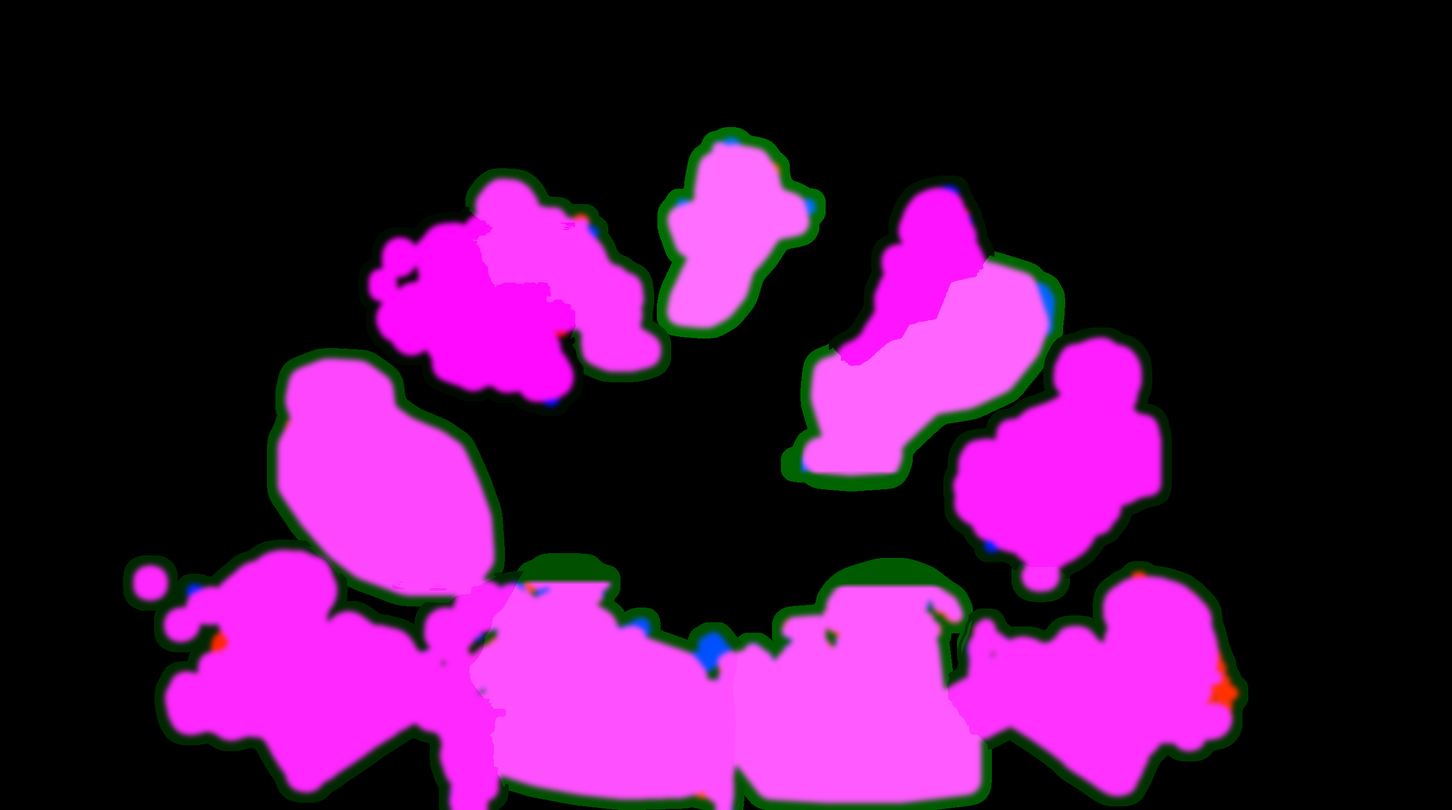
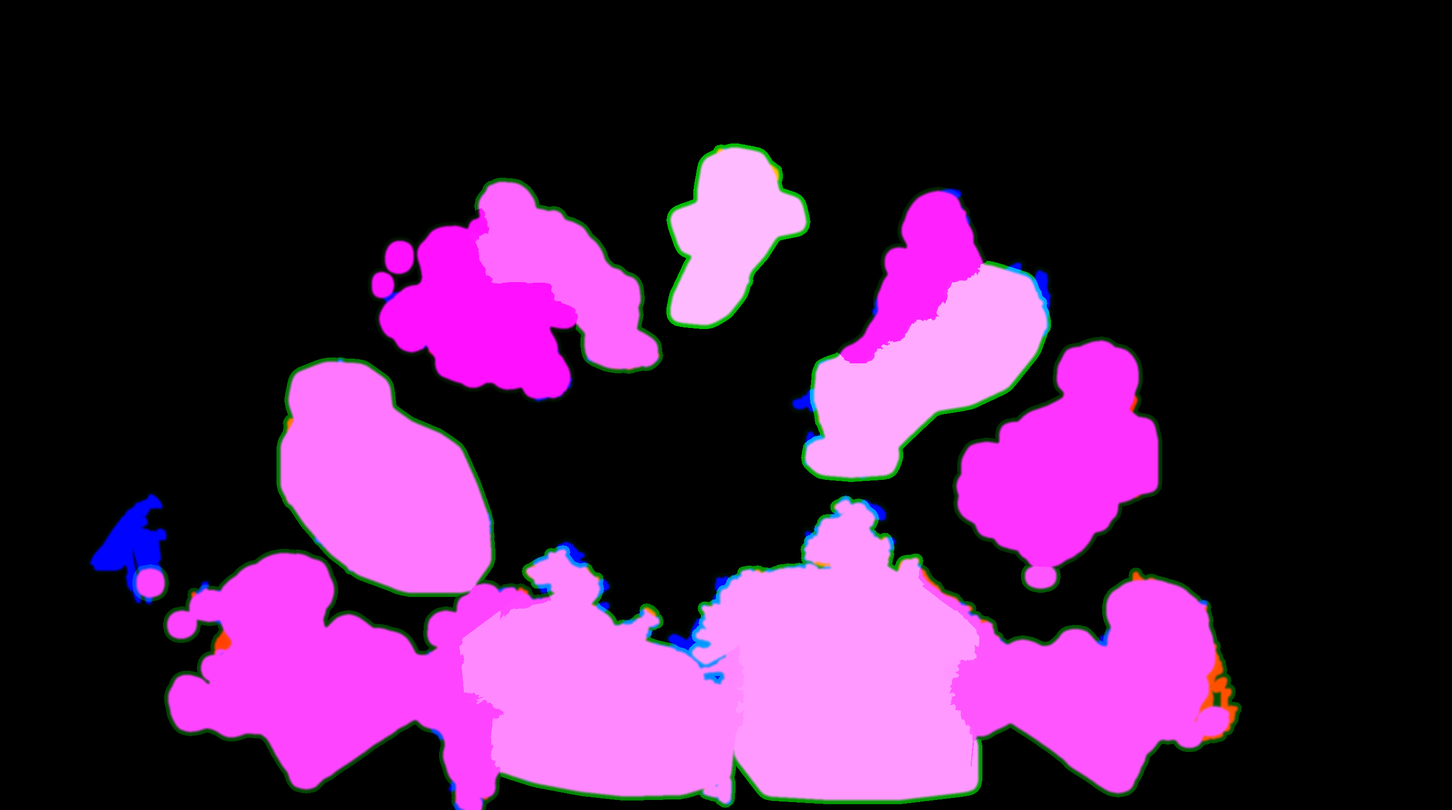
Reading room: every reader whole, blinking, and turning pages
The founder sat in the hall alone and saw a young man with no legs, who
neither blinked nor turned a page.

Whole figures. Each reader was cut out along the old render's outline, and
drawn only inside the old reader's box: the new man's legs reached past
both. Now each reader is cut out of each render on their own: whatever
differs from the empty room (compared a few pixels around, since the
renders re-drew every texture a pixel or two off), split between readers
who touch by a watershed over the render, holes filled. Each reader's box
grows to hold their figure in all four renders. The mask keeps two owners
per pixel (16 x the woman's number + the man's), since the two casts'
figures differ.

Blinks. A lid was drawn only inside the old face's head area, and the man's
eyes sit higher than the old woman's did. Lids now close wherever the face
is drawn, and readers 1, 2 and 6 got their eyes (both of them where both
show).

Page turns. Only five readers had them. Every reader who holds an open book
now turns pages: an open book facing us turns its page over (mode 2); a
book seen from its cover shows the top of the page flicking up past it
(mode 3). Their sheets borrow clean text pages, tinted to the reader's
light; the phones' pages texture gets two spare tiles for them. The shader
had page and eye slots for only five and eight readers, given every frame;
they now go only to readers turning a page or blinking at that moment.
[…]

diff --git a/frontend/src/widgets/ReadingRoom/engine.js b/frontend/src/widgets/ReadingRoom/engine.js
@@ -4,7 +4,7 @@
    Ported from the prototype (prototypes/reading-room/index.html), where every number here was measured and checked.
    Phones get the founder's portrait render of the hall (m-*, rig in rig-m.js, built by prototypes/reading-room/mobile/). */
 import {RIG_M,PAGES_M} from './rig-m.js';
-import {CAST_EYES} from './casts.js';
+import {CAST_BOX,CAST_EYES,CAST_PAGES} from './casts.js';
 const clamp=(v,a=0,b=1)=>Math.min(b,Math.max(a,v));
 const seg=(p,a,b)=>clamp((p-a)/(b-a));
 const lerp=(a,b,t)=>a+(b-a)*t;
@@ -22,7 +22,7 @@ void main(){vec2 uv=vUv;vec2 d=(uv-uSun)/56.;vec2 s=uv;vec3 acc=vec3(0.);float w
  gl_FragColor=vec4(acc/56.*2.2,1.);}`;
 const MAIN_FS=`precision highp float;varying vec2 vUv;
 uniform sampler2D uImg;uniform sampler2D uRay;uniform vec2 uRes;uniform vec2 uOff;uniform vec2 uSize;uniform vec2 uPar;uniform float uTime;uniform float uWake;uniform float uNight;uniform float uRayK;
-uniform vec4 uWin;uniform vec3 uFire;uniform vec4 uFireBox;uniform vec4 uLamp[24];uniform int uNL;uniform vec4 uSway[6];uniform float uLoaded;uniform sampler2D uWith;uniform sampler2D uWith2;uniform sampler2D uMask;uniform sampler2D uRig;uniform sampler2D uSoft;uniform sampler2D uPages;
+uniform vec4 uWin;uniform vec3 uFire;uniform vec4 uFireBox;uniform vec4 uLamp[24];uniform int uNL;uniform vec4 uSway[6];uniform float uLoaded;uniform float uCasts;uniform sampler2D uWith;uniform sampler2D uWith2;uniform sampler2D uMask;uniform sampler2D uRig;uniform sampler2D uSoft;uniform sampler2D uPages;
 uniform vec4 uS[${NS*8}];uniform vec4 uPg[${NP*7}];uniform vec4 uEye[${NE}];uniform vec4 uLid[${NE}];uniform vec4 uCup[8];uniform float uGK;uniform vec2 uSteamK;uniform vec2 uMaskPx;
 float hash(vec2 p){return fract(sin(dot(p,vec2(127.1,311.7)))*43758.5453);}
 vec2 aff(vec4 m,vec2 t,vec2 p){return vec2(m.x*p.x+m.y*p.y,m.z*p.x+m.w*p.y)+t;}
@@ -30,9 +30,11 @@ vec2 aff(vec4 m,vec2 t,vec2 p){return vec2(m.x*p.x+m.y*p.y,m.z*p.x+m.w*p.y)+t;}
    second render (uWith2) and his outline is in the mask's blue channel; the women, and every other hall, use uWith and red */
 vec3 photo(vec2 s,float id){return mix(texture2D(uWith,s).rgb,texture2D(uWith2,s).rgb,step(31.5,id));}
 /* the reader's own pixel at s: its colour, and its coverage only where the mask belongs to this reader. The reader's number
-   is read at the middle of the mask's pixel: filtered between two readers who touch, it would belong to neither */
-vec4 person(vec2 s,float id){float g=texture2D(uMask,(floor(s*uMaskPx)+.5)/uMaskPx).g;vec4 m=texture2D(uMask,s);
- return vec4(photo(s,id),mix(m.r,m.b,step(31.5,id))*(1.-step(.04,abs(g*25.5-mod(id,32.)))));}
+   is read at the middle of the mask's pixel: filtered between two readers who touch, it would belong to neither. A hall
+   with two casts keeps both numbers in green, 16 x the woman's + the man's, since the two casts' figures differ */
+vec4 person(vec2 s,float id){float g=floor(texture2D(uMask,(floor(s*uMaskPx)+.5)/uMaskPx).g*255.+.5);vec4 m=texture2D(uMask,s);
+ float man=step(31.5,id),hi=floor(g/16.+.01),own=uCasts>.5?mix(hi,g-16.*hi,man):g/10.;
+ return vec4(photo(s,id),mix(m.r,m.b,man)*(1.-step(.2,abs(own-mod(id,32.)))));}
 /* a blink: the upper lid comes down over the eye. Its skin takes the colour of the skin at the crease and under the eye,
    and the lash line travels down with the lid's edge, column by column */
 vec3 lid(vec2 s,vec3 col,vec4 E,vec4 L,float w,float id){
@@ -93,7 +95,11 @@ void main(){
   vec2 s=mix(p,pT,smoothstep(1.,.4,length((p-To.xy)/To.zw)));
   vec3 sw=texture2D(uSoft,s).rgb;
   s=mix(s,pH,sw.r);s=mix(s,pB,sw.g);s=mix(s,pW,sw.b);
-  vec4 q=person(s,id);c=mix(c,q.rgb,q.a*vis);
+  /* blinks wherever the face is drawn: a new face need not sit where the rig's rigid head is */
+  float bl=uS[i*8+7].x;
+  vec4 q=person(s,id);
+  if(bl>.002)for(int e=0;e<${NE};e++){vec4 L=uLid[e];if(abs(L.w-float(i))<.5)q.rgb=lid(s,q.rgb,uEye[e],L,bl,id);}
+  c=mix(c,q.rgb,q.a*vis);
   /* the book with the hands holding it, crisp and whole */
   vec3 rB=texture2D(uRig,pB).rgb;
   if(rB.g>.002){q=person(pB,id);c=mix(c,q.rgb,q.a*rB.g*vis);}
@@ -106,18 +112,21 @@ void main(){
    if(PC.w>=0.&&rB.b>.002&&onR)c=mix(c,texture2D(uPages,vec2((PC.w+clamp(bR,.02,.97))/${NT}.,.5+clamp(aR,.01,.99)*.5)).rgb,rB.b*vis*smoothstep(.95,.9,aR)*smoothstep(.99,.95,bR));
    /* page turn: the right-hand sheet lifts off, curls over the spine and settles on the left. It is lit by the angle it makes
       with the light, shows the page's front and then its back, and casts a soft shadow on the pages underneath */
-   float ph=PT.x;
+   /* PU.z: 0 an open book; 1 a book turned to us; 2 an open book whose sheet borrows another book's pages, so it shows only
+      while it is lifted off them; 3 a book seen from its cover: only the top of the sheet flicks up past it */
+   float ph=PT.x,away=step(.5,PU.z)*step(PU.z,1.5),lent=step(1.5,PU.z);
    if(ph>=0.&&length(qb-d*.5)<length(d)+length(R)+length(L)){
     float th=3.14159*(.5-.5*cos(3.14159*ph)),fade=1.;
-    if(PU.z>.5){th=mix(1.5708,3.14159,smoothstep(0.,1.,ph));fade=smoothstep(0.,.18,ph)*(1.-smoothstep(.6,.88,ph));}
+    if(away>.5){th=mix(1.5708,3.14159,smoothstep(0.,1.,ph));fade=smoothstep(0.,.18,ph)*(1.-smoothstep(.6,.88,ph));}
+    if(lent>.5)fade=smoothstep(.3,.8,sin(th));
     float sh=0.;
     if(onR&&th<1.5708)sh=.38*sin(th)*(1.-smoothstep(cos(th)*.85,cos(th)*.85+.4,bR));
     if(onL&&th>1.5708)sh=.38*sin(th)*(1.-smoothstep(-cos(th)*.85,-cos(th)*.85+.4,bL));
-    c*=1.-sh*fade*vis;
+    c*=1.-sh*fade*vis*step(PU.z,2.5);
     /* the sheet, drawn as eight strips so it can bend */
     vec2 Pk=vec2(0.);float hit=0.,tp=0.,ha=0.,hk=0.,fr=1.,ea=1.3/length(d*uSize);
     for(int k=0;k<8;k++){
-     float tk=th-.62*sin(th)*(float(k)+.5)/8.;if(PU.z>.5)tk=max(tk,1.5708);
+     float tk=th-.62*sin(th)*(float(k)+.5)/8.;if(away>.5)tk=max(tk,1.5708);
      vec2 e=(((1.+cos(tk))*.5)*R+((1.-cos(tk))*.5)*L+sin(tk)*Up)/8.;
      vec2 r=qb-Pk;float det=d.x*e.y-d.y*e.x;
      if(abs(det)>1e-10){float a=(r.x*e.y-r.y*e.x)/det,b=(d.x*r.y-d.y*r.x)/det;
@@ -126,9 +135,9 @@ void main(){
      Pk+=e;
     }
     /* a book turned to us: the sheet is behind its cover until it clears it */
-    if(PU.z>.5)hit*=1.-smoothstep(0.,.03,aR)*smoothstep(1.,.97,aR)*smoothstep(-.01,.02,bR)*smoothstep(1.,.97,bR);
+    if(away>.5)hit*=1.-smoothstep(0.,.03,aR)*smoothstep(1.,.97,aR)*smoothstep(-.01,.02,bR)*smoothstep(1.,.97,bR);
     if(hit>0.){
-     float tile=(fr>.5&&PU.z<.5)?PT.y:PT.z;
+     float tile=(fr>.5&&away<.5)?PT.y:PT.z;
      /* lying flat it is exactly the page in the photo; in the air it is lit by its angle */
      vec2 tuv=vec2((tile+clamp(tp,.02,.97))/${NT}.,clamp(ha,.01,.99)*.5);float mid=smoothstep(0.,.5,sin(hk));
      vec3 pg=mix(texture2D(uPages,tuv+vec2(0.,.5)).rgb,texture2D(uPages,tuv).rgb,mid)*PC.rgb;
@@ -143,7 +152,7 @@ void main(){
   if(rW>.002){q=person(pW,id);c=mix(c,q.rgb,q.a*rW*vis);}
   /* the head, rigid, with its own blinks */
   float rH=texture2D(uRig,pH).r;
-  if(rH>.002){float bl=uS[i*8+7].x;q=person(pH,id);
+  if(rH>.002){q=person(pH,id);
    if(bl>.002)for(int e=0;e<${NE};e++){vec4 L=uLid[e];if(abs(L.w-float(i))<.5)q.rgb=lid(pH,q.rgb,uEye[e],L,bl,id);}
    c=mix(c,q.rgb,q.a*rH*vis);}
  }
@@ -303,7 +312,8 @@ function motion(id,p,now,vis){
   if(G&&turning){
     ph=e>=0&&e<FLIP.dur?e/FLIP.dur:-1;
     const f=clamp((e+FLIP.reach)/(FLIP.dur*.9+FLIP.reach));
-    bA+=.012*bump(f)*(G.away?1:-1);bY-=.8*bump(f);hA+=(G.away?.02:-.018)*bump(f);hY-=.6*bump(f);
+    const toUs=(G.mode??G.away)%2;
+    bA+=.012*bump(f)*(toUs?1:-1);bY-=.8*bump(f);hA+=(toUs?.02:-.018)*bump(f);hY-=.6*bump(f);
     if(R.wrist)hand=handGesture(id,e);
     /* the eyes jump from the end of one page to the top of the next, and blink on the way */
     if(EY&&e>FLIP.dur*.45&&m.flipSeen!==p.flipAt){m.flipSeen=p.flipAt;m.blinkNext=now}
@@ -314,12 +324,15 @@ function motion(id,p,now,vis){
   const T0=aRot(R.hip,tA,1,tX,tY),Th=aMul(T0,aRot(R.neck,hA,1,hX,hY)),Tb=aMul(aRot(R.hip,tA*.6,1,tX*.6,tY*.6),aRot(R.book,bA,bS,bX,bY));
   const Tw=R.wrist?aMul(Tb,aRot(R.wrist,hand[2],hand[3],hand[0],hand[1])):Tb;
   /* the site's masks run a soft seam past each reader's outline, so the box they may be drawn in is padded */
-  const B=R.box;slotBuf.set([B[0]-PAD[0],B[1]-PAD[1],B[2]+PAD[0],B[3]+PAD[1]],o);slotBuf.set(R.torso,o+4);putInv(T0,slotBuf,o+8);putInv(Th,slotBuf,o+14);putInv(Tb,slotBuf,o+20);
-  slotBuf[o+26]=id+(male?32:0);slotBuf[o+27]=vis;slotBuf[o+28]=EY?blinkAmt(now-m.blinkT)*m.blinkK:0;
-  if(G&&F.np<NP){const q=F.np++*28;
-    pgBuf.set([...G.s0,...G.d,...G.r,...G.l,...G.up,G.away,1,ph,G.tiles[0],G.tiles[1],sl,...G.tint,G.under],q);
+  const B=CASTS&&CASTS.box[id]||R.box;slotBuf.set([B[0]-PAD[0],B[1]-PAD[1],B[2]+PAD[0],B[3]+PAD[1]],o);slotBuf.set(R.torso,o+4);putInv(T0,slotBuf,o+8);putInv(Th,slotBuf,o+14);putInv(Tb,slotBuf,o+20);
+  const blink=EY?blinkAmt(now-m.blinkT)*m.blinkK:0;
+  slotBuf[o+26]=id+(male?32:0);slotBuf[o+27]=vis;slotBuf[o+28]=blink;
+  /* a page slot only while the page turns, and eye slots only while the eyes blink: with every reader able to do both,
+     the shader's few slots go to whoever is doing it right now */
+  if(G&&turning&&F.np<NP){const q=F.np++*28;
+    pgBuf.set([...G.s0,...G.d,...G.r,...G.l,...G.up,G.mode??G.away,1,ph,G.tiles[0],G.tiles[1],sl,...G.tint,G.under],q);
     if(R.wrist){putInv(Tw,pgBuf,q+20);pgBuf[q+26]=1}}
-  for(const e of EY||[])if(F.ne<NE){const k=F.ne++*4;eyeBuf.set(e.slice(0,4),k);lidBuf.set([...e.slice(4,7),sl],k)}
+  if(blink>0)for(const e of EY||[])if(F.ne<NE){const k=F.ne++*4;eyeBuf.set(e.slice(0,4),k);lidBuf.set([...e.slice(4,7),sl],k)}
 }
 
 
@@ -331,7 +344,7 @@ function motion(id,p,now,vis){
 export const HALLS={
   /* casts: the founder's renders of 2026-10-06 put a woman and a man in every chair (build_casts.py), so a seat shows
      whoever takes it, blinking with their own eyes (casts.js) */
-  a:{files:'a',casts:{eyes:CAST_EYES.a},sun:[.5,.05],win:[.5,.1,.13,.17],fire:[.915,.78],fireBox:[.893,.712,.938,.852],
+  a:{files:'a',casts:{eyes:CAST_EYES.a,box:CAST_BOX.a,pages:CAST_PAGES.a},sun:[.5,.05],win:[.5,.1,.13,.17],fire:[.915,.78],fireBox:[.893,.712,.938,.852],
     lamps:[[.15,.66,1],[.705,.38,.75],[.855,.70,1]],
     seats:[[.33,.335,-1],[.355,.44,-1],[.33,.52,-1],[.235,.63,0],[.2,.89,-1],[.42,.905,-1],[.58,.905,-1],[.79,.89,-1],[.735,.62,2],[.65,.5,-1],[.66,.36,1],[.515,.32,-1]],
     chars:{1:{seat:1,g:'f',head:[.318,.292],ring:[.325,.394]},2:{seat:10,g:'f',head:[.644,.252],ring:[.6425,.3136]},3:{seat:8,g:'m',head:[.754,.437],ring:[.757,.49]},4:{seat:4,g:'m',head:[.19,.705],ring:[.205,.79]},5:{seat:7,g:'f',head:[.793,.732],ring:[.7825,.851]},
@@ -354,7 +367,7 @@ export const HALLS={
 /* Phones: the founder's portrait render of the same hall, eleven readers, the same picture for both halls. Seat numbers
    are the server's, as in the wide halls: the round keeps room A's (seat 2 has no chair here either), the library keeps
    its six and adds the five that only the portrait has */
-const M={files:'m',casts:{eyes:CAST_EYES.m},portrait:true,pw:1536,ph:2752,pad:[.004,.004],gk:.55,steam:[.52,1.6],fitU:[.045,.955],
+const M={files:'m',casts:{eyes:CAST_EYES.m,box:CAST_BOX.m,pages:CAST_PAGES.m},portrait:true,pw:1536,ph:2752,pad:[.004,.004],gk:.55,steam:[.52,1.6],fitU:[.045,.955],
   sun:[.5,.06],win:[.5,.1,.3,.12],fire:[.995,.69],fireBox:[.972,.668,1.02,.715],
   lamps:[[.063,.425,1],[.83,.44,.8],[.592,.328,.7],[.378,.327,.7],[.07,.309,.6]],
   cups:[[.5501,.456],[.5811,.461],[.5615,.7295],[.6144,.7436]],
@@ -381,13 +394,14 @@ export function seatChar(hall,seat){for(const [id,c] of Object.entries(HALLS[hal
 
 const DUST=[...Array(170)].map((_,i)=>{const r=rng(i*7+3);return {t:r(),s:r()*2-1,ph:r()*6.28,sp:.2+r()*.6,sz:.5+r()*1.4,a:.25+r()*.75}});
 const EMBERS=[...Array(26)].map((_,i)=>{const r=rng(i*13+5);return {x:r(),t:r(),sp:.35+r()*.6,dr:r()*2-1,sz:.6+r()*1.2}});
-const UNIFORMS=['uImg','uRay','uRes','uOff','uSize','uPar','uTime','uWake','uNight','uRayK','uWin','uFire','uFireBox','uLamp','uNL','uSway','uLoaded','uWith','uWith2','uMask','uRig','uSoft','uPages','uS','uPg','uEye','uLid','uCup','uGK','uSteamK','uMaskPx'];
+const UNIFORMS=['uImg','uRay','uRes','uOff','uSize','uPar','uTime','uWake','uNight','uRayK','uWin','uFire','uFireBox','uLamp','uNL','uSway','uLoaded','uCasts','uWith','uWith2','uMask','uRig','uSoft','uPages','uS','uPg','uEye','uLid','uCup','uGK','uSteamK','uMaskPx'];
 
 /* opts: hall, base (url of the photos), canvas, fx, stage, frame, edge, teaser, ui, tags, scrollEl (null: the room is shown whole),
    variant ('day' | 'night'), small (phone-sized photos), reduced (less motion), onFlip(key) when a reader turns a page */
 export function createRoomEngine(opts){
   const H=HALLS[opts.hall],{canvas:cv,fx,stage}=opts,fxc=fx.getContext('2d');
-  MOT={};CASTS=H.casts||null;RIG=H.rig||RIG_A;PAGES=H.pages||PAGES_A;PW=H.pw||2752;PH=H.ph||1536;PAD=H.pad||[.012,.03];
+  /* every reader of a hall with two casts turns pages: the rig's own page turns, and the new ones (casts.js) */
+  MOT={};CASTS=H.casts||null;RIG=H.rig||RIG_A;PAGES={...(H.pages||PAGES_A),...(CASTS?.pages||{})};PW=H.pw||2752;PH=H.ph||1536;PAD=H.pad||[.012,.03];
   const gl=cv.getContext('webgl2',{antialias:false,alpha:false})||cv.getContext('webgl',{antialias:false,alpha:false});
   const GL2=typeof WebGL2RenderingContext!=='undefined'&&gl instanceof WebGL2RenderingContext;
   let progMain=null,progRays=null;const U={};
@@ -575,7 +589,7 @@ export function createRoomEngine(opts){
       if(!peopleReady)frameSlots.ns=0,slotBuf.fill(0);
       gl.uniform4fv(U.uS,slotBuf);gl.uniform4fv(U.uPg,pgBuf);gl.uniform4fv(U.uEye,eyeBuf);gl.uniform4fv(U.uLid,lidBuf);
       const shown={};for(const s of seats)if(s.lastChar)shown[s.lastChar]=Math.max(shown[s.lastChar]||0,s.vis);
-      cupBuf.fill(0);H.cups.slice(0,8).forEach((cp,i)=>cupBuf.set([cp[0],cp[1]-.004,seg(P,.6,.85)*(1-(cp[2]?shown[cp[2]]||0:0)),.55+cp[1]*.75],i*4));gl.uniform4fv(U.uCup,cupBuf);gl.uniform4f(U.uFireBox,...H.fireBox);gl.uniform1f(U.uGK,H.gk||1);gl.uniform2f(U.uMaskPx,PW,PH);gl.uniform2f(U.uSteamK,...(H.steam||[1,1]));
+      cupBuf.fill(0);H.cups.slice(0,8).forEach((cp,i)=>cupBuf.set([cp[0],cp[1]-.004,seg(P,.6,.85)*(1-(cp[2]?shown[cp[2]]||0:0)),.55+cp[1]*.75],i*4));gl.uniform4fv(U.uCup,cupBuf);gl.uniform4f(U.uFireBox,...H.fireBox);gl.uniform1f(U.uGK,H.gk||1);gl.uniform1f(U.uCasts,CASTS?1:0);gl.uniform2f(U.uMaskPx,PW,PH);gl.uniform2f(U.uSteamK,...(H.steam||[1,1]));
       gl.activeTexture(gl.TEXTURE0);gl.bindTexture(gl.TEXTURE_2D,tex.tex);gl.uniform1i(U.uImg,0);
       gl.activeTexture(gl.TEXTURE1);gl.bindTexture(gl.TEXTURE_2D,tex.ray);gl.uniform1i(U.uRay,1);
       gl.uniform2f(U.uRes,view.w,view.h);gl.uniform2f(U.uOff,view.ox,view.oy);gl.uniform2f(U.uSize,view.W,view.H);gl.uniform2f(U.uPar,view.parX,view.parY);

diff --git a/frontend/src/widgets/ReadingRoom/casts.js b/frontend/src/widgets/ReadingRoom/casts.js
@@ -1,4 +1,11 @@
-/* The reading room's two casts: where each new face's eyes are, so the lids close over them. Per hall (a: the wide
-   photo, m: the phones' portrait), time of day and cast (f, m), reader by reader, as engine.js keeps a rig's eyes.
-   Written by prototypes/reading-room/casts_js.py from the founder's renders of 2026-10-06; do not edit by hand. */
-export const CAST_EYES={"a":{"day":{"f":{"1":[[0.32068,0.34896,0.00303,-8.5e-05,0.002214,0.002344,0.0014,0]],"2":[[0.64528,0.29219,0.00263,-0.000247,0.001432,0.002604,0.0011,0]],"3":[[0.75309,0.48724,0.0033,-0.000247,0.002148,0.00319,0.001198,0],[0.7432,0.48268,0.00233,0.000417,0.002344,0.002344,0.0011,0]],"7":[[0.23519,0.51989,0.00341,-0.000371,0.002507,0.003158,0.000801,0],[0.24613,0.51549,0.00168,-0.000254,0.001693,0.002214,0.000703,0]]},"m":{"1":[[0.32097,0.34876,0.00327,-0.000104,0.00319,0.004492,0.0014,0]],"2":[[0.65162,0.27734,0.00208,-8.5e-05,0.001562,0.001758,0.0011,0]],"3":[[0.75307,0.4903,0.00306,0.0,0.002018,0.00293,0.001198,0],[0.74302,0.48542,0.00202,-8.5e-05,0.002344,0.002604,0.0011,0]],"7":[[0.23868,0.52448,0.00359,-0.000247,0.002279,0.002409,0.000801,0],[0.24797,0.52031,0.00148,-8.5e-05,0.002018,0.002148,0.000703,0]]}},"night":{"f":{"1":[[0.32028,0.34971,0.00263,-0.000124,0.00166,0.003158,0.0014,0]],"2":[[0.64515,0.29329,0.00235,-0.000169,0.001562,0.001823,0.0011,0]],"3":[[0.75365,0.48789,0.00306,-0.000247,0.002865,0.003255,0.001198,0],[0.74331,0.48138,0.00202,8.5e-05,0.002344,0.002539,0.0011,0]],"7":[[0.23556,0.52005,0.00355,-0.000247,0.002669,0.00319,0.000801,0],[0.24586,0.51589,0.00202,-0.000254,0.002018,0.002279,0.000703,0]]},"m":{"1":[[0.32013,0.34782,0.00237,-0.000625,0.002246,0.002181,0.0014,0]],"2":[[0.65189,0.27728,0.0029,-0.000163,0.001823,0.002214,0.0011,0]],"3":[[0.75363,0.49004,0.00335,0.000163,0.001953,0.002344,0.001198,0],[0.74284,0.48509,0.00197,0.0,0.002344,0.002865,0.0011,0]],"7":[[0.2389,0.52422,0.0035,-0.000247,0.002865,0.002669,0.000801,0],[0.24747,0.52083,0.0019,-8.5e-05,0.002604,0.00293,0.000703,0]]}}},"m":{"day":{"f":{"1":[[0.21029,0.42068,0.00496,-9.1e-05,0.000763,0.000981,0.000581,0]],"2":[[0.736,0.39117,0.00456,-9.1e-05,0.00069,0.000908,0.000472,0]],"3":[[0.80892,0.52206,0.00496,-9.1e-05,0.000836,0.001054,0.000556,0]],"7":[[0.08561,0.51137,0.00615,-9.1e-05,0.001199,0.001126,0.000392,0],[0.10384,0.50858,0.00377,-0.000233,0.000872,0.00109,0.000345,0]]},"m":{"1":[[0.21208,0.42271,0.00635,-0.000182,0.000836,0.000981,0.000581,0]],"2":[[0.74447,0.38521,0.00536,-9.1e-05,0.000981,0.001126,0.000472,0]],"3":[[0.80859,0.52271,0.00576,0.0,0.000908,0.001126,0.000556,0]],"7":[[0.0944,0.51392,0.00734,-9.1e-05,0.001199,0.001344,0.000392,0],[0.10758,0.51308,0.00277,-0.00024,0.000799,0.001163,0.000345,0]]}},"night":{"f":{"1":[[0.21338,0.42148,0.00476,-0.000185,0.00069,0.000981,0.000581,0]],"2":[[0.73861,0.39172,0.00576,-4.7e-05,0.000799,0.000872,0.000472,0]],"3":[[0.80957,0.52271,0.00655,0.000182,0.001126,0.001344,0.000556,0]],"7":[[0.09049,0.51283,0.00576,-0.000367,0.000763,0.001126,0.000392,0],[0.10612,0.50981,0.00337,-0.000425,0.000872,0.001017,0.000345,0]]},"m":{"1":[[0.21387,0.4206,0.00536,-0.000185,0.000836,0.000981,0.000581,0]],"2":[[0.74626,0.38423,0.00516,-0.000138,0.000945,0.00109,0.000472,0]],"3":[[0.81185,0.52373,0.00615,9.1e-05,0.001126,0.001126,0.000556,0]],"7":[[0.09326,0.51374,0.00794,-4.7e-05,0.001308,0.001453,0.000392,0],[0.10645,0.51305,0.00496,-0.000185,0.000908,0.001344,0.000345,0]]}}}};
+/* The reading room's two casts, from the founder's renders of 2026-10-06. Per hall (a: the wide photo, m: the phones'
+   portrait):
+   CAST_EYES: where each new face's eyes are, so the lids close over them, by time of day and cast (f, m), reader by
+   reader, as engine.js keeps a rig's eyes;
+   CAST_BOX: each reader's box, grown to hold their figure in every render (build_casts.py), so none is cut;
+   CAST_PAGES: page turns for the readers the old rig had none for (casts/pages.json), as engine.js PAGES, with
+   mode 2 (an open book facing us) or 3 (a book seen from its cover: only the sheet's edge flicks past it).
+   Written by prototypes/reading-room/casts_js.py; do not edit by hand. */
+export const CAST_EYES={"a":{"day":{"f":{"6":[[0.35102,0.2666,0.00277,-0.000495,0.001758,0.002279,0.000977,0]],"1":[[0.32068,0.34896,0.00303,-8.5e-05,0.002214,0.002344,0.0014,0],[0.3284,0.34873,0.00221,-0.000293,0.002376,0.002441,0.00112,0]],"2":[[0.64528,0.29219,0.00263,-0.000247,0.001432,0.002604,0.0011,0],[0.63854,0.2918,0.00155,8.5e-05,0.001562,0.001562,0.000879,0]],"3":[[0.75309,0.48724,0.0033,-0.000247,0.002148,0.00319,0.001198,0],[0.7432,0.48268,0.00233,0.000417,0.002344,0.002344,0.0011,0]],"7":[[0.23519,0.51989,0.00341,-0.000371,0.002507,0.003158,0.000801,0],[0.24613,0.51549,0.00168,-0.000254,0.001693,0.002214,0.000703,0]]},"m":{"6":[[0.35238,0.27266,0.00266,-0.000247,0.001432,0.001562,0.000977,0]],"1":[[0.32097,0.34876,0.00327,-0.000104,0.00319,0.004492,0.0014,0],[0.32812,0.34753,0.0021,-0.000254,0.002474,0.002995,0.00112,0]],"2":[[0.65162,0.27734,0.00208,-8.5e-05,0.001562,0.001758,0.0011,0],[0.64462,0.27572,0.00166,-0.000169,0.001497,0.001628,0.000879,0]],"3":[[0.75307,0.4903,0.00306,0.0,0.002018,0.00293,0.001198,0],[0.74302,0.48542,0.00202,-8.5e-05,0.002344,0.002604,0.0011,0]],"7":[[0.23868,0.52448,0.00359,-0.000247,0.002279,0.002409,0.000801,0],[0.24797,0.52031,0.00148,-8.5e-05,0.002018,0.002148,0.000703,0]]}},"night":{"f":{"6":[[0.35129,0.2668,0.00377,-0.000247,0.001562,0.002344,0.000977,0]],"1":[[0.32028,0.34971,0.00263,-0.000124,0.00166,0.003158,0.0014,0],[0.32812,0.3498,0.00233,-0.000332,0.002539,0.002669,0.00112,0]],"2":[[0.64515,0.29329,0.00235,-0.000169,0.001562,0.001823,0.0011,0],[0.63863,0.29219,0.00166,8.5e-05,0.001562,0.001693,0.000879,0]],"3":[[0.75365,0.48789,0.00306,-0.000247,0.002865,0.003255,0.001198,0],[0.74331,0.48138,0.00202,8.5e-05,0.002344,0.002539,0.0011,0]],"7":[[0.23556,0.52005,0.00355,-0.000247,0.002669,0.00319,0.000801,0],[0.24586,0.51589,0.00202,-0.000254,0.002018,0.002279,0.000703,0]]},"m":{"6":[[0.35247,0.27148,0.00388,-0.00041,0.002865,0.003255,0.000977,0]],"1":[[0.32013,0.34782,0.00237,-0.000625,0.002246,0.002181,0.0014,0],[0.32776,0.34629,0.0021,-0.000332,0.002279,0.002669,0.00112,0]],"2":[[0.65189,0.27728,0.0029,-0.000163,0.001823,0.002214,0.0011,0],[0.64462,0.27572,0.0021,-0.000169,0.001758,0.002148,0.000879,0]],"3":[[0.75363,0.49004,0.00335,0.000163,0.001953,0.002344,0.001198,0],[0.74284,0.48509,0.00197,0.0,0.002344,0.002865,0.0011,0]],"7":[[0.2389,0.52422,0.0035,-0.000247,0.002865,0.002669,0.000801,0],[0.24747,0.52083,0.0019,-8.5e-05,0.002604,0.00293,0.000703,0]]}}},"m":{"day":{"f":{"6":[[0.25749,0.37725,0.00377,-0.000142,0.000872,0.00109,0.000472,0]],"1":[[0.21029,0.42068,0.00496,-9.1e-05,0.000763,0.000981,0.000581,0]],"2":[[0.736,0.39117,0.00456,-9.1e-05,0.00069,0.000908,0.000472,0]],"3":[[0.80892,0.52206,0.00496,-9.1e-05,0.000836,0.001054,0.000556,0]],"7":[[0.08561,0.51137,0.00615,-9.1e-05,0.001199,0.001126,0.000392,0],[0.10384,0.50858,0.00377,-0.000233,0.000872,0.00109,0.000345,0]]},"m":{"6":[[0.25928,0.38121,0.00357,-0.000189,0.000981,0.001054,0.000472,0]],"1":[[0.21208,0.42271,0.00635,-0.000182,0.000836,0.000981,0.000581,0]],"2":[[0.74447,0.38521,0.00536,-9.1e-05,0.000981,0.001126,0.000472,0]],"3":[[0.80859,0.52271,0.00576,0.0,0.000908,0.001126,0.000556,0]],"7":[[0.0944,0.51392,0.00734,-9.1e-05,0.001199,0.001344,0.000392,0],[0.10758,0.51308,0.00277,-0.00024,0.000799,0.001163,0.000345,0]]}},"night":{"f":{"6":[[0.25667,0.37725,0.00437,-0.000138,0.000945,0.00109,0.000472,0]],"1":[[0.21338,0.42148,0.00476,-0.000185,0.00069,0.000981,0.000581,0]],"2":[[0.73861,0.39172,0.00576,-4.7e-05,0.000799,0.000872,0.000472,0]],"3":[[0.80957,0.52271,0.00655,0.000182,0.001126,0.001344,0.000556,0]],"7":[[0.09049,0.51283,0.00576,-0.000367,0.000763,0.001126,0.000392,0],[0.10612,0.50981,0.00337,-0.000425,0.000872,0.001017,0.000345,0]]},"m":{"6":[[0.25879,0.38105,0.00536,-0.00016,0.00089,0.001145,0.000472,0]],"1":[[0.21387,0.4206,0.00536,-0.000185,0.000836,0.000981,0.000581,0]],"2":[[0.74626,0.38423,0.00516,-0.000138,0.000945,0.00109,0.000472,0]],"3":[[0.81185,0.52373,0.00615,9.1e-05,0.001126,0.001126,0.000556,0]],"7":[[0.09326,0.51374,0.00794,-4.7e-05,0.001308,0.001453,0.000392,0],[0.10645,0.51305,0.00496,-0.000185,0.000908,0.001344,0.000345,0]]}}}};
+export const CAST_BOX={"a":{"1":[0.25,0.2487,0.403,0.4993],"2":[0.572,0.2292,0.693,0.483],"3":[0.653,0.408,0.803,0.7051],"4":[0.06,0.6061,0.383,1.0],"5":[0.6286,0.694,0.8547,0.9831],"6":[0.31,0.2207,0.456,0.4603],"7":[0.1911,0.4388,0.3416,0.7357],"8":[0.3125,0.6647,0.516,0.9974],"9":[0.4578,0.6081,0.6784,0.9915],"10":[0.5436,0.3132,0.7257,0.5944],"11":[0.4597,0.1725,0.5574,0.4049]},"m":{"1":[0.0807,0.3739,0.3522,0.5145],"2":[0.6074,0.359,0.8073,0.4797],"3":[0.6445,0.4738,0.8809,0.6588],"4":[0.0,0.7028,0.3112,0.8234],"5":[0.6771,0.6025,1.0,0.8328],"6":[0.2044,0.3423,0.4173,0.4789],"7":[0.0,0.4528,0.2617,0.633],"8":[0.2415,0.6817,0.5124,0.863],"9":[0.515,0.6686,0.7689,0.8637],"10":[0.5775,0.4001,0.8783,0.5465],"11":[0.4147,0.3198,0.6126,0.4524]}};
+export const CAST_PAGES={"a":{"1":{"s0":[0.34775,0.3724],"d":[0.00145,0.00911],"r":[-0.01853,-0.00586],"l":[0.00145,-0.01758],"up":[-0.00283,-0.00677],"away":0,"mode":3,"tiles":[2,3],"tint":[1.25,1.25,1.25],"under":-1},"2":{"s0":[0.62246,0.33464],"d":[0.00073,0.00911],"r":[0.01781,-0.00651],"l":[-0.00981,-0.01107],"up":[0.00142,-0.0127],"away":0,"mode":3,"tiles":[2,3],"tint":[0.9,0.9,0.9],"under":-1},"6":{"s0":[0.38481,0.29362],"d":[0.00073,0.00911],"r":[-0.01708,-0.00521],"l":[0.00581,-0.00977],"up":[-0.00189,-0.011],"away":0,"mode":3,"tiles":[2,3],"tint":[1.25,1.25,1.25],"under":-1},"7":{"s0":[0.25581,0.54883],"d":[0.00145,0.01302],"r":[-0.01962,0.0],"l":[0.01054,-0.01758],"up":[-0.00331,-0.01439],"away":0,"mode":3,"tiles":[2,3],"tint":[1.011,1.011,1.011],"under":-1},"8":{"s0":[0.45422,0.82161],"d":[-0.01453,0.06706],"r":[0.01308,0.01497],"l":[-0.02798,0.0],"up":[-0.00109,-0.00456],"away":0,"mode":2,"tiles":[2,3],"tint":[0.708,0.708,0.708],"under":-1},"11":{"s0":[0.47602,0.27441],"d":[0.0109,0.01693],"r":[0.01272,-0.01009],"l":[-0.00291,0.00228],"up":[-0.00182,-0.00521],"away":0,"mode":2,"tiles":[2,3],"tint":[1.25,1.25,1.25],"under":-1}},"m":{"4":{"s0":[0.16178,0.75472],"d":[-0.01855,0.02507],"r":[0.01432,0.00327],"l":[-0.02702,-0.00927],"up":[-0.00195,-0.00182],"away":0,"mode":2,"tiles":[4,5],"tint":[0.759,0.759,0.759],"under":-1},"5":{"s0":[0.82161,0.76036],"d":[0.02604,0.02634],"r":[0.0293,-0.00963],"l":[-0.01302,0.00309],"up":[-0.0013,-0.00182],"away":0,"mode":2,"tiles":[4,5],"tint":[0.7,0.7,0.7],"under":-1},"8":{"s0":[0.42969,0.77108],"d":[-0.00781,0.03379],"r":[0.04395,0.01163],"l":[-0.02441,-0.00799],"up":[-0.00195,-0.00218],"away":0,"mode":2,"tiles":[4,5],"tint":[0.7,0.7,0.7],"under":-1},"9":{"s0":[0.61784,0.77653],"d":[0.01693,0.0327],"r":[0.02865,-0.004],"l":[-0.0319,0.00363],"up":[0.00195,-0.00182],"away":0,"mode":2,"tiles":[4,5],"tint":[0.756,0.756,0.756],"under":-1},"11":{"s0":[0.46908,0.38081],"d":[0.02116,0.01199],"r":[0.01172,-0.00581],"l":[-0.00716,-0.00073],"up":[-0.00391,-0.00291],"away":0,"mode":2,"tiles":[4,5],"tint":[1.189,1.189,1.189],"under":-1},"1":{"s0":[0.25423,0.43401],"d":[0.00251,0.00477],"r":[-0.02989,-0.00304],"l":[0.00201,-0.0092],"up":[-0.00468,-0.00354],"away":0,"mode":3,"tiles":[4,5],"tint":[1.25,1.25,1.25],"under":-1},"2":{"s0":[0.69862,0.41413],"d":[0.00115,0.00474],"r":[0.02856,-0.00329],"l":[-0.01571,-0.0058],"up":[0.00229,-0.00659],"away":0,"mode":3,"tiles":[4,5],"tint":[0.9,0.9,0.9],"under":-1},"6":{"s0":[0.31234,0.39192],"d":[0.00125,0.00479],"r":[-0.02767,-0.00263],"l":[0.00933,-0.00518],"up":[-0.00314,-0.00578],"away":0,"mode":3,"tiles":[4,5],"tint":[1.211,1.211,1.211],"under":-1},"7":{"s0":[0.11732,0.52649],"d":[0.00269,0.0066],"r":[-0.03,-2e-05],"l":[0.01548,-0.0089],"up":[-0.00557,-0.0073],"away":0,"mode":3,"tiles":[4,5],"tint":[0.917,0.917,0.917],"under":-1}}};

diff --git a/frontend/src/widgets/ReadingRoom/engine.d.ts b/frontend/src/widgets/ReadingRoom/engine.d.ts
@@ -16,8 +16,13 @@ export interface Hall {
   seats: [number, number, number][];
   chars: Record<number, HallChar>;
   /** Renders of every chair with a woman and with a man: any reader can take any chair with a character.
-   *  eyes: each face's blinking eyes, by time of day, cast and reader (casts.js). */
-  casts?: { eyes: Record<'day' | 'night', Partial<Record<'f' | 'm', Record<number, number[][]>>>> };
+   *  eyes: each face's blinking eyes, by time of day, cast and reader; box: each reader's box, fitted to their
+   *  figures in every render (casts.js). */
+  casts?: {
+    eyes: Record<'day' | 'night', Partial<Record<'f' | 'm', Record<number, number[][]>>>>;
+    box: Record<number, number[]>;
+    pages: Record<number, unknown>;
+  };
 }
 
 export const HALLS: Record<HallKey, Hall>;
